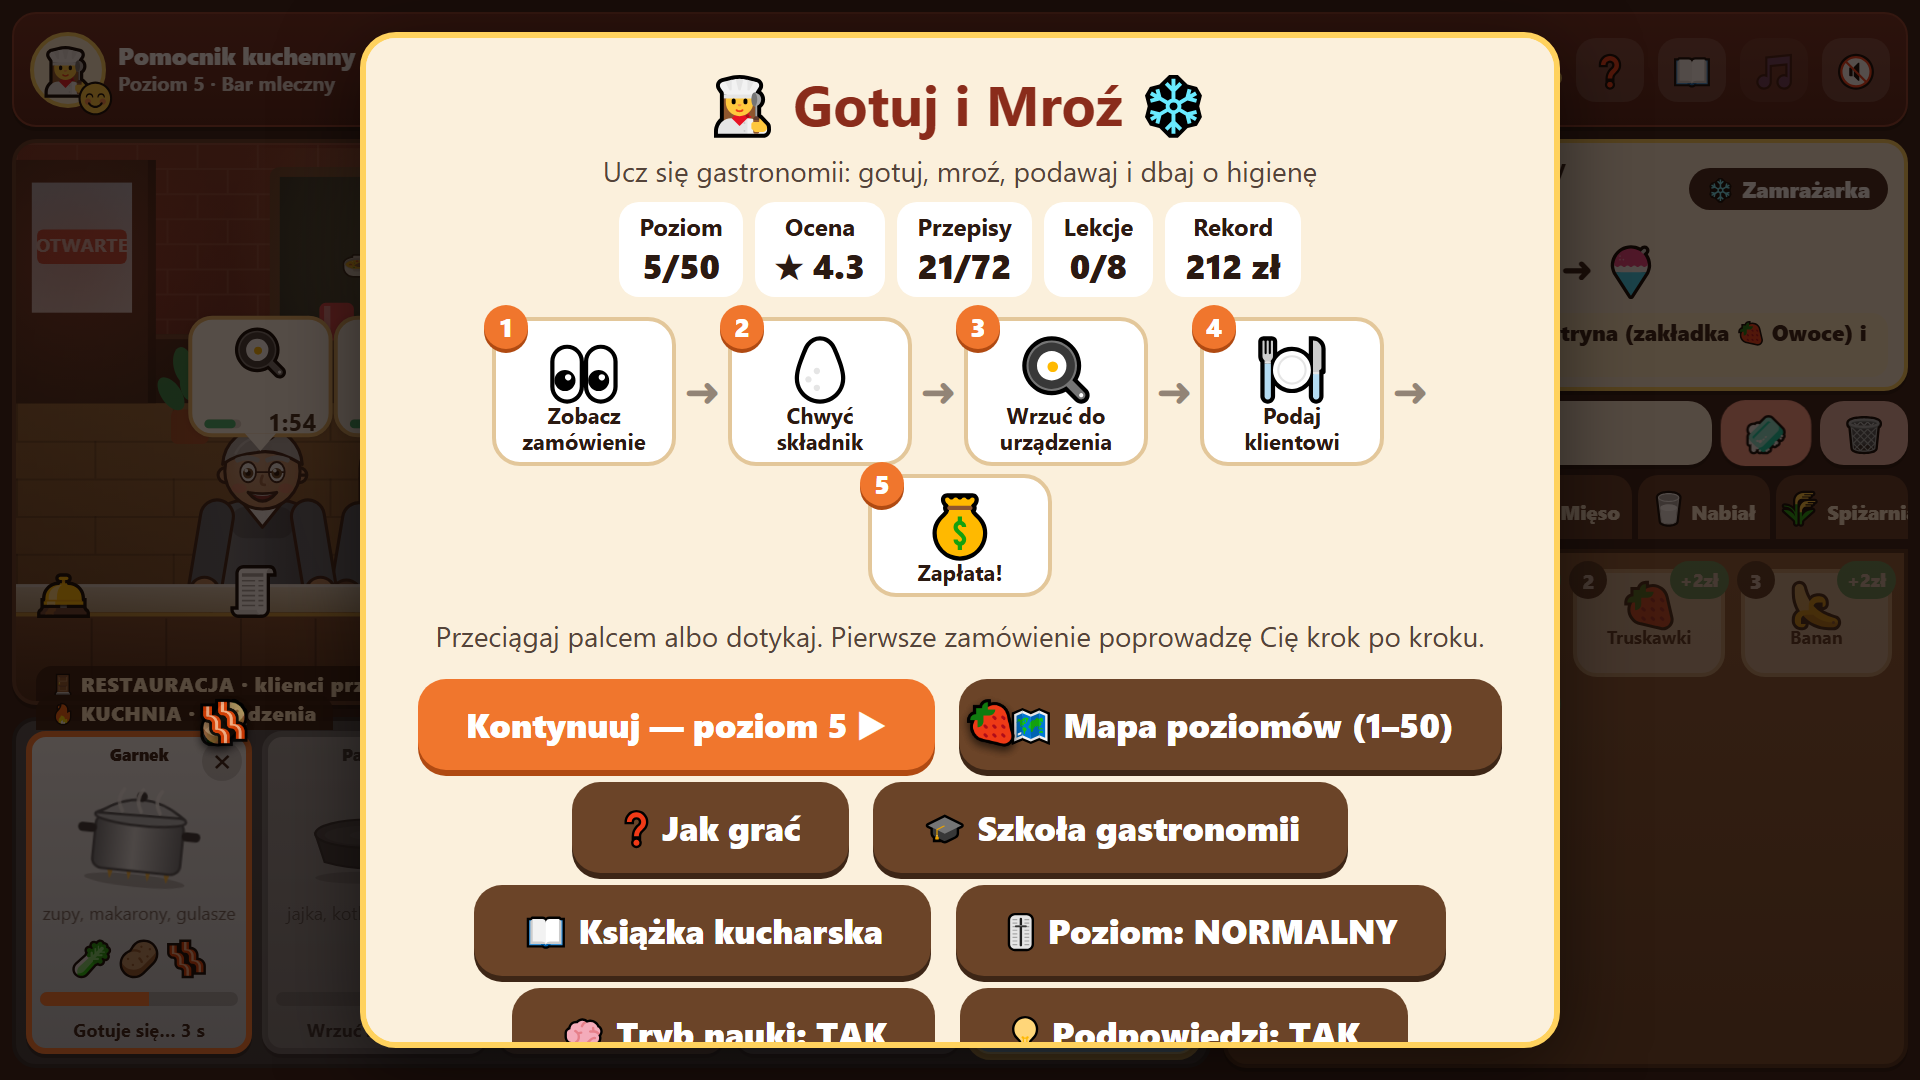
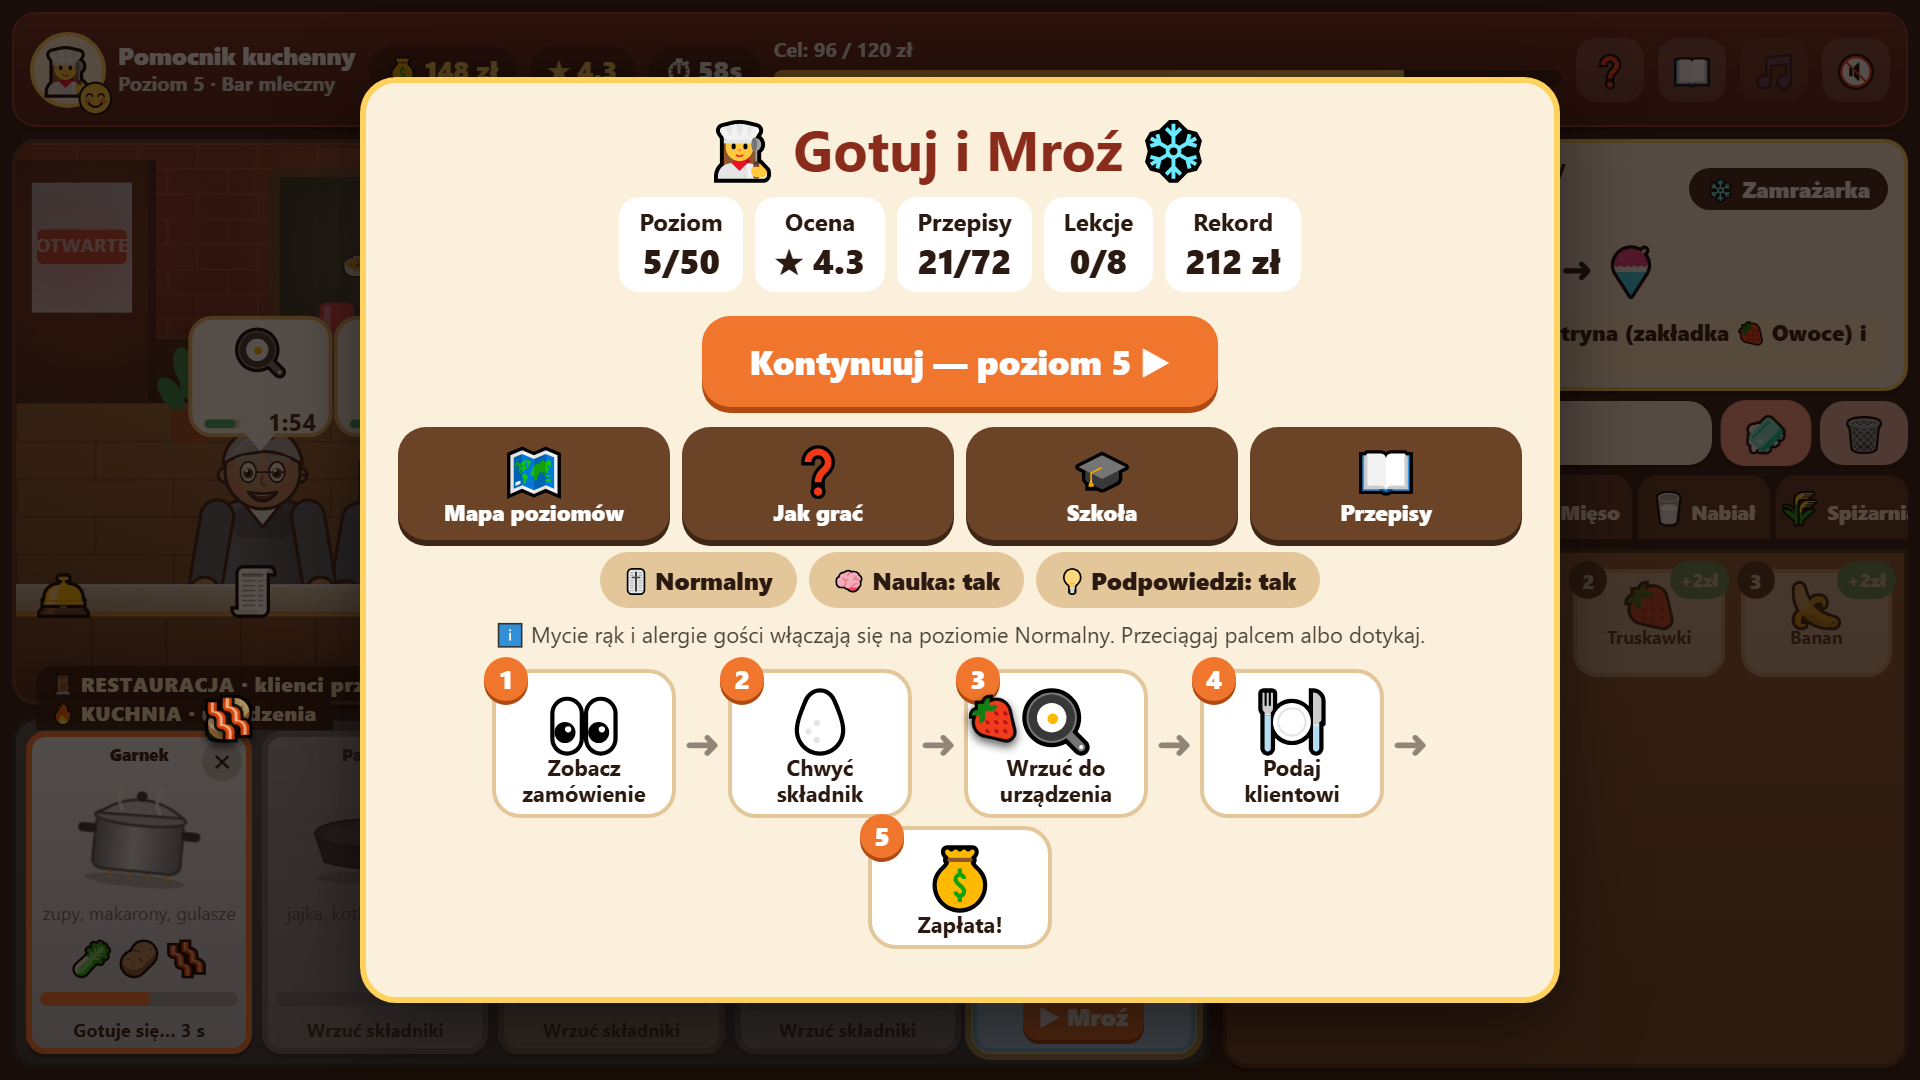
Napraw układ pionowy, menu na małych ekranach i zbalansuj cele poziomów

diff --git a/gotuj-i-mroz/android/app/src/main/assets/public/index.html b/gotuj-i-mroz/android/app/src/main/assets/public/index.html
@@ -165,6 +165,22 @@ button{font:inherit;color:inherit}
 .lesson .rp{margin-left:auto;font-weight:900;color:#2e8b57}
 .expl{background:#fff0c9;border-radius:10px;padding:8px 10px;font-size:14px;text-align:left}
 .nav{display:flex;gap:8px;justify-content:center}
+@media (max-height:520px){.menuhow{display:none}#ovbox h1{font-size:22px}.stats{margin:4px 0}.bigbtn{padding:8px 20px;font-size:15px}}
+.mgrid{display:grid;grid-template-columns:repeat(4,1fr);gap:6px;margin:10px 0 6px}
+.mgrid button{background:#6b4428;color:#fff;border:0;border-radius:14px;padding:8px 2px;font-size:24px;line-height:1.1;box-shadow:0 3px 0 #3d2616;cursor:pointer}
+.mgrid small{display:block;font-size:11px;font-weight:800;margin-top:2px}
+.mset{display:flex;flex-wrap:wrap;gap:6px;justify-content:center}
+.mset button{background:#e3c79a;color:var(--ink);border:0;border-radius:999px;padding:6px 12px;font-size:12px;font-weight:800;cursor:pointer}
+@media (orientation:portrait){
+  .st .nm{font-size:clamp(8px,2.3vw,12px)}
+  .st .msg{font-size:9px}
+  #app{grid-template-columns:minmax(0,1fr)}
+  #hud{flex-wrap:wrap;row-gap:3px}
+  .goal{order:20;flex:1 1 100%}
+  .chef div{display:block}
+  .chef small{display:none}
+  .st .what{display:none}
+}
 .how{display:flex;flex-wrap:wrap;align-items:stretch;justify-content:center;gap:4px;margin:10px 0}
 .how .hs{background:#fff;border:2px solid #e3c79a;border-radius:14px;padding:6px 6px 4px;width:92px;position:relative}
 .how .hs i{position:absolute;left:-6px;top:-8px;background:var(--accent);color:#fff;border-radius:50%;width:22px;height:22px;font-style:normal;font-weight:900;font-size:13px;display:flex;align-items:center;justify-content:center;box-shadow:0 2px 0 #b04a12}
@@ -481,7 +497,7 @@ function load(){try{const d=JSON.parse(localStorage.getItem(SAVE_KEY)||"null");i
 function save(){try{localStorage.setItem(SAVE_KEY,JSON.stringify({coins:S.coins,day:S.day,best:S.best,rep:S.rep,sound:S.sound,music:S.music,hints:S.hints,up:S.up,learn:S.learn,done:S.done,quizOK:S.quizOK,quizTot:S.quizTot,easy:S.easy,tutDone:S.tutDone,maxLv:S.maxLv,stars:S.stars}));}catch(e){}}
 const unlocked=()=>RECIPES.filter(r=>r.day<=S.day);
 const usedIng=()=>{const s=new Set();unlocked().forEach(r=>r.ing.forEach(i=>s.add(i)));return s;};
-const target=()=>Math.round((45+9*S.day)*(S.easy?.75:1));
+const target=()=>Math.round((80+8*S.day)*(S.easy?.75:1));
 const maxPat=()=>Math.min(180,Math.max(70,180-S.day*2.3))*(1+.15*S.up.pat)*(S.easy?1:.8); // klient czeka do 3 minut
 const maxQ=()=>{const n=S.day<5?3:S.day<15?4:5;return S.easy?Math.min(n,4):n;};
 const rnd=a=>a[Math.floor(Math.random()*a.length)];
@@ -762,7 +778,7 @@ function tick(dt){
     S.spawn-=dt;
     if(S.spawn<=0){
       if(S.q.length<maxQ()){S.q.push(makeCust());sfx.door();dirty=true;}
-      S.spawn=(Math.max(6,16-S.day*.2)+Math.random()*4)/(1+(S.rep-3)*.08)*(S.easy?1.3:1)*(S.event&&S.event.type==="rush"?.5:1);
+      S.spawn=(Math.max(6,13-S.day*.18)+Math.random()*3)/(1+(S.rep-3)*.08)*(S.easy?1.15:1)*(S.event&&S.event.type==="rush"?.5:1);
     }
   }
   for(let i=S.q.length-1;i>=0;i--){
@@ -814,7 +830,7 @@ function reviews(){
 function endDay(){
   S.running=false;
   const tg=target(),ok=S.earned>=tg;
-  const stars=S.earned>=tg*2?3:S.earned>=tg*1.5?2:ok?1:0;
+  const stars=S.earned>=tg*1.9?3:S.earned>=tg*1.4?2:ok?1:0;
   const before=unlocked().length;
   if(S.earned>S.best)S.best=S.earned;
   S.stars[S.day]=Math.max(S.stars[S.day]||0,stars);S.lastLevel=S.day;
@@ -894,11 +910,11 @@ function showEnd(){
     <div class="stars">${"⭐".repeat(stars)}${"☆".repeat(3-stars)}</div>
     <div class="stats"><div>Zarobek<b>${S.earned} zł</b></div><div>Cel<b>${tg} zł</b></div><div>Obsłużeni<b>${S.served}</b></div><div>Stracone<b>${S.lost}</b></div><div>Ocena<b>★ ${S.rep.toFixed(1)}</b></div>${S.learn?`<div>Incydenty<b>${S.incidents}</b></div>`:""}</div>
     ${S.learn?`<p class="sub">💡 Czy wiesz, że ${rnd(TIPS)}</p>`:""}
+    <button class="bigbtn" data-act="startday">${ok?(S.day>=50&&S.stars[50]?"Zagraj jeszcze raz ▶":"Poziom "+S.day+" ▶"):"Powtórz poziom ▶"}</button>
+    <button class="bigbtn alt" data-act="map">🗺 Mapa poziomów</button>
     ${ok&&fresh.length?`<p><b>🔓 Nowe przepisy!</b></p><div class="newr">${fresh.map(r=>`<span>${r.e} ${r.name}</span>`).join("")}</div>`:""}
     <p><b>💬 Opinie gości</b></p>${revs.map(r=>`<div class="review">„${r.t}” <small>— ${r.who} ${"⭐".repeat(r.s)}</small></div>`).join("")}
-    ${shopHTML()}
-    <button class="bigbtn" data-act="startday">${ok?(S.day>=50&&S.stars[50]?"Zagraj jeszcze raz ▶":"Poziom "+S.day+" ▶"):"Powtórz poziom ▶"}</button>
-    <button class="bigbtn alt" data-act="map">🗺 Mapa poziomów</button>`);
+    ${shopHTML()}`);
 }
 
 /* ============ SCENA ============ */
@@ -1363,20 +1379,13 @@ function menu(){
   menuMode=true;
   const known=unlocked().length;
   overlay(`<h1>👩🍳 Gotuj i Mroź ❄</h1>
-    <p class="sub">Ucz się gastronomii: gotuj, mroź, podawaj i dbaj o higienę</p>
     <div class="stats"><div>Poziom<b>${S.day}/50</b></div><div>Ocena<b>★ ${S.rep.toFixed(1)}</b></div><div>Przepisy<b>${known}/${RECIPES.length}</b></div><div>Lekcje<b>${S.done.length}/${LESSONS.length}</b></div><div>Rekord<b>${S.best} zł</b></div></div>
-    ${howStrip()}
-    <p class="sub">Przeciągaj palcem albo dotykaj. Pierwsze zamówienie poprowadzę Cię krok po kroku.</p>
     <button class="bigbtn" data-act="startday">${S.day>1?"Kontynuuj — poziom "+S.day:"Otwórz restaurację!"} ▶</button>
-    <button class="bigbtn alt" data-act="map">🗺 Mapa poziomów (1–50)</button>
-    <button class="bigbtn alt" data-act="how">❓ Jak grać</button>
-    <button class="bigbtn alt" data-act="school">🎓 Szkoła gastronomii</button>
-    <button class="bigbtn alt" data-act="book">📖 Książka kucharska</button>
-    <button class="bigbtn alt" data-act="easy">🎚 Poziom: ${S.easy?"ŁATWY (polecany na start)":"NORMALNY"}</button>
-    <button class="bigbtn alt" data-act="learn">🧠 Tryb nauki: ${S.learn?"TAK":"NIE"}</button>
-    <button class="bigbtn alt" data-act="hints">💡 Podpowiedzi: ${S.hints?"TAK":"NIE (tryb szefa)"}</button>`);
+    <div class="mgrid"><button data-act="map">🗺<small>Mapa poziomów</small></button><button data-act="how">❓<small>Jak grać</small></button><button data-act="school">🎓<small>Szkoła</small></button><button data-act="book">📖<small>Przepisy</small></button></div>
+    <div class="mset"><button data-act="easy">🎚 ${S.easy?"Łatwy":"Normalny"}</button><button data-act="learn">🧠 Nauka: ${S.learn?"tak":"nie"}</button><button data-act="hints">💡 Podpowiedzi: ${S.hints?"tak":"nie"}</button></div>
+    <p class="sub" style="margin:6px 0 0;font-size:11px">ℹ Mycie rąk i alergie gości włączają się na poziomie Normalny. Przeciągaj palcem albo dotykaj.</p>
+    <div class="menuhow">${howStrip()}</div>`);
 }
-
 /* ============ START ============ */
 document.addEventListener("pointerdown",e=>{
   S.idle=0;hideHandHint();

diff --git a/gotuj-i-mroz/index.html b/gotuj-i-mroz/index.html
@@ -165,6 +165,22 @@ button{font:inherit;color:inherit}
 .lesson .rp{margin-left:auto;font-weight:900;color:#2e8b57}
 .expl{background:#fff0c9;border-radius:10px;padding:8px 10px;font-size:14px;text-align:left}
 .nav{display:flex;gap:8px;justify-content:center}
+@media (max-height:520px){.menuhow{display:none}#ovbox h1{font-size:22px}.stats{margin:4px 0}.bigbtn{padding:8px 20px;font-size:15px}}
+.mgrid{display:grid;grid-template-columns:repeat(4,1fr);gap:6px;margin:10px 0 6px}
+.mgrid button{background:#6b4428;color:#fff;border:0;border-radius:14px;padding:8px 2px;font-size:24px;line-height:1.1;box-shadow:0 3px 0 #3d2616;cursor:pointer}
+.mgrid small{display:block;font-size:11px;font-weight:800;margin-top:2px}
+.mset{display:flex;flex-wrap:wrap;gap:6px;justify-content:center}
+.mset button{background:#e3c79a;color:var(--ink);border:0;border-radius:999px;padding:6px 12px;font-size:12px;font-weight:800;cursor:pointer}
+@media (orientation:portrait){
+  .st .nm{font-size:clamp(8px,2.3vw,12px)}
+  .st .msg{font-size:9px}
+  #app{grid-template-columns:minmax(0,1fr)}
+  #hud{flex-wrap:wrap;row-gap:3px}
+  .goal{order:20;flex:1 1 100%}
+  .chef div{display:block}
+  .chef small{display:none}
+  .st .what{display:none}
+}
 .how{display:flex;flex-wrap:wrap;align-items:stretch;justify-content:center;gap:4px;margin:10px 0}
 .how .hs{background:#fff;border:2px solid #e3c79a;border-radius:14px;padding:6px 6px 4px;width:92px;position:relative}
 .how .hs i{position:absolute;left:-6px;top:-8px;background:var(--accent);color:#fff;border-radius:50%;width:22px;height:22px;font-style:normal;font-weight:900;font-size:13px;display:flex;align-items:center;justify-content:center;box-shadow:0 2px 0 #b04a12}
@@ -481,7 +497,7 @@ function load(){try{const d=JSON.parse(localStorage.getItem(SAVE_KEY)||"null");i
 function save(){try{localStorage.setItem(SAVE_KEY,JSON.stringify({coins:S.coins,day:S.day,best:S.best,rep:S.rep,sound:S.sound,music:S.music,hints:S.hints,up:S.up,learn:S.learn,done:S.done,quizOK:S.quizOK,quizTot:S.quizTot,easy:S.easy,tutDone:S.tutDone,maxLv:S.maxLv,stars:S.stars}));}catch(e){}}
 const unlocked=()=>RECIPES.filter(r=>r.day<=S.day);
 const usedIng=()=>{const s=new Set();unlocked().forEach(r=>r.ing.forEach(i=>s.add(i)));return s;};
-const target=()=>Math.round((45+9*S.day)*(S.easy?.75:1));
+const target=()=>Math.round((80+8*S.day)*(S.easy?.75:1));
 const maxPat=()=>Math.min(180,Math.max(70,180-S.day*2.3))*(1+.15*S.up.pat)*(S.easy?1:.8); // klient czeka do 3 minut
 const maxQ=()=>{const n=S.day<5?3:S.day<15?4:5;return S.easy?Math.min(n,4):n;};
 const rnd=a=>a[Math.floor(Math.random()*a.length)];
@@ -762,7 +778,7 @@ function tick(dt){
     S.spawn-=dt;
     if(S.spawn<=0){
       if(S.q.length<maxQ()){S.q.push(makeCust());sfx.door();dirty=true;}
-      S.spawn=(Math.max(6,16-S.day*.2)+Math.random()*4)/(1+(S.rep-3)*.08)*(S.easy?1.3:1)*(S.event&&S.event.type==="rush"?.5:1);
+      S.spawn=(Math.max(6,13-S.day*.18)+Math.random()*3)/(1+(S.rep-3)*.08)*(S.easy?1.15:1)*(S.event&&S.event.type==="rush"?.5:1);
     }
   }
   for(let i=S.q.length-1;i>=0;i--){
@@ -814,7 +830,7 @@ function reviews(){
 function endDay(){
   S.running=false;
   const tg=target(),ok=S.earned>=tg;
-  const stars=S.earned>=tg*2?3:S.earned>=tg*1.5?2:ok?1:0;
+  const stars=S.earned>=tg*1.9?3:S.earned>=tg*1.4?2:ok?1:0;
   const before=unlocked().length;
   if(S.earned>S.best)S.best=S.earned;
   S.stars[S.day]=Math.max(S.stars[S.day]||0,stars);S.lastLevel=S.day;
@@ -894,11 +910,11 @@ function showEnd(){
     <div class="stars">${"⭐".repeat(stars)}${"☆".repeat(3-stars)}</div>
     <div class="stats"><div>Zarobek<b>${S.earned} zł</b></div><div>Cel<b>${tg} zł</b></div><div>Obsłużeni<b>${S.served}</b></div><div>Stracone<b>${S.lost}</b></div><div>Ocena<b>★ ${S.rep.toFixed(1)}</b></div>${S.learn?`<div>Incydenty<b>${S.incidents}</b></div>`:""}</div>
     ${S.learn?`<p class="sub">💡 Czy wiesz, że ${rnd(TIPS)}</p>`:""}
+    <button class="bigbtn" data-act="startday">${ok?(S.day>=50&&S.stars[50]?"Zagraj jeszcze raz ▶":"Poziom "+S.day+" ▶"):"Powtórz poziom ▶"}</button>
+    <button class="bigbtn alt" data-act="map">🗺 Mapa poziomów</button>
     ${ok&&fresh.length?`<p><b>🔓 Nowe przepisy!</b></p><div class="newr">${fresh.map(r=>`<span>${r.e} ${r.name}</span>`).join("")}</div>`:""}
     <p><b>💬 Opinie gości</b></p>${revs.map(r=>`<div class="review">„${r.t}” <small>— ${r.who} ${"⭐".repeat(r.s)}</small></div>`).join("")}
-    ${shopHTML()}
-    <button class="bigbtn" data-act="startday">${ok?(S.day>=50&&S.stars[50]?"Zagraj jeszcze raz ▶":"Poziom "+S.day+" ▶"):"Powtórz poziom ▶"}</button>
-    <button class="bigbtn alt" data-act="map">🗺 Mapa poziomów</button>`);
+    ${shopHTML()}`);
 }
 
 /* ============ SCENA ============ */
@@ -1363,20 +1379,13 @@ function menu(){
   menuMode=true;
   const known=unlocked().length;
   overlay(`<h1>👩🍳 Gotuj i Mroź ❄</h1>
-    <p class="sub">Ucz się gastronomii: gotuj, mroź, podawaj i dbaj o higienę</p>
     <div class="stats"><div>Poziom<b>${S.day}/50</b></div><div>Ocena<b>★ ${S.rep.toFixed(1)}</b></div><div>Przepisy<b>${known}/${RECIPES.length}</b></div><div>Lekcje<b>${S.done.length}/${LESSONS.length}</b></div><div>Rekord<b>${S.best} zł</b></div></div>
-    ${howStrip()}
-    <p class="sub">Przeciągaj palcem albo dotykaj. Pierwsze zamówienie poprowadzę Cię krok po kroku.</p>
     <button class="bigbtn" data-act="startday">${S.day>1?"Kontynuuj — poziom "+S.day:"Otwórz restaurację!"} ▶</button>
-    <button class="bigbtn alt" data-act="map">🗺 Mapa poziomów (1–50)</button>
-    <button class="bigbtn alt" data-act="how">❓ Jak grać</button>
-    <button class="bigbtn alt" data-act="school">🎓 Szkoła gastronomii</button>
-    <button class="bigbtn alt" data-act="book">📖 Książka kucharska</button>
-    <button class="bigbtn alt" data-act="easy">🎚 Poziom: ${S.easy?"ŁATWY (polecany na start)":"NORMALNY"}</button>
-    <button class="bigbtn alt" data-act="learn">🧠 Tryb nauki: ${S.learn?"TAK":"NIE"}</button>
-    <button class="bigbtn alt" data-act="hints">💡 Podpowiedzi: ${S.hints?"TAK":"NIE (tryb szefa)"}</button>`);
+    <div class="mgrid"><button data-act="map">🗺<small>Mapa poziomów</small></button><button data-act="how">❓<small>Jak grać</small></button><button data-act="school">🎓<small>Szkoła</small></button><button data-act="book">📖<small>Przepisy</small></button></div>
+    <div class="mset"><button data-act="easy">🎚 ${S.easy?"Łatwy":"Normalny"}</button><button data-act="learn">🧠 Nauka: ${S.learn?"tak":"nie"}</button><button data-act="hints">💡 Podpowiedzi: ${S.hints?"tak":"nie"}</button></div>
+    <p class="sub" style="margin:6px 0 0;font-size:11px">ℹ Mycie rąk i alergie gości włączają się na poziomie Normalny. Przeciągaj palcem albo dotykaj.</p>
+    <div class="menuhow">${howStrip()}</div>`);
 }
-
 /* ============ START ============ */
 document.addEventListener("pointerdown",e=>{
   S.idle=0;hideHandHint();

diff --git a/gotuj-i-mroz/www/index.html b/gotuj-i-mroz/www/index.html
@@ -165,6 +165,22 @@ button{font:inherit;color:inherit}
 .lesson .rp{margin-left:auto;font-weight:900;color:#2e8b57}
 .expl{background:#fff0c9;border-radius:10px;padding:8px 10px;font-size:14px;text-align:left}
 .nav{display:flex;gap:8px;justify-content:center}
+@media (max-height:520px){.menuhow{display:none}#ovbox h1{font-size:22px}.stats{margin:4px 0}.bigbtn{padding:8px 20px;font-size:15px}}
+.mgrid{display:grid;grid-template-columns:repeat(4,1fr);gap:6px;margin:10px 0 6px}
+.mgrid button{background:#6b4428;color:#fff;border:0;border-radius:14px;padding:8px 2px;font-size:24px;line-height:1.1;box-shadow:0 3px 0 #3d2616;cursor:pointer}
+.mgrid small{display:block;font-size:11px;font-weight:800;margin-top:2px}
+.mset{display:flex;flex-wrap:wrap;gap:6px;justify-content:center}
+.mset button{background:#e3c79a;color:var(--ink);border:0;border-radius:999px;padding:6px 12px;font-size:12px;font-weight:800;cursor:pointer}
+@media (orientation:portrait){
+  .st .nm{font-size:clamp(8px,2.3vw,12px)}
+  .st .msg{font-size:9px}
+  #app{grid-template-columns:minmax(0,1fr)}
+  #hud{flex-wrap:wrap;row-gap:3px}
+  .goal{order:20;flex:1 1 100%}
+  .chef div{display:block}
+  .chef small{display:none}
+  .st .what{display:none}
+}
 .how{display:flex;flex-wrap:wrap;align-items:stretch;justify-content:center;gap:4px;margin:10px 0}
 .how .hs{background:#fff;border:2px solid #e3c79a;border-radius:14px;padding:6px 6px 4px;width:92px;position:relative}
 .how .hs i{position:absolute;left:-6px;top:-8px;background:var(--accent);color:#fff;border-radius:50%;width:22px;height:22px;font-style:normal;font-weight:900;font-size:13px;display:flex;align-items:center;justify-content:center;box-shadow:0 2px 0 #b04a12}
@@ -481,7 +497,7 @@ function load(){try{const d=JSON.parse(localStorage.getItem(SAVE_KEY)||"null");i
 function save(){try{localStorage.setItem(SAVE_KEY,JSON.stringify({coins:S.coins,day:S.day,best:S.best,rep:S.rep,sound:S.sound,music:S.music,hints:S.hints,up:S.up,learn:S.learn,done:S.done,quizOK:S.quizOK,quizTot:S.quizTot,easy:S.easy,tutDone:S.tutDone,maxLv:S.maxLv,stars:S.stars}));}catch(e){}}
 const unlocked=()=>RECIPES.filter(r=>r.day<=S.day);
 const usedIng=()=>{const s=new Set();unlocked().forEach(r=>r.ing.forEach(i=>s.add(i)));return s;};
-const target=()=>Math.round((45+9*S.day)*(S.easy?.75:1));
+const target=()=>Math.round((80+8*S.day)*(S.easy?.75:1));
 const maxPat=()=>Math.min(180,Math.max(70,180-S.day*2.3))*(1+.15*S.up.pat)*(S.easy?1:.8); // klient czeka do 3 minut
 const maxQ=()=>{const n=S.day<5?3:S.day<15?4:5;return S.easy?Math.min(n,4):n;};
 const rnd=a=>a[Math.floor(Math.random()*a.length)];
@@ -762,7 +778,7 @@ function tick(dt){
     S.spawn-=dt;
     if(S.spawn<=0){
       if(S.q.length<maxQ()){S.q.push(makeCust());sfx.door();dirty=true;}
-      S.spawn=(Math.max(6,16-S.day*.2)+Math.random()*4)/(1+(S.rep-3)*.08)*(S.easy?1.3:1)*(S.event&&S.event.type==="rush"?.5:1);
+      S.spawn=(Math.max(6,13-S.day*.18)+Math.random()*3)/(1+(S.rep-3)*.08)*(S.easy?1.15:1)*(S.event&&S.event.type==="rush"?.5:1);
     }
   }
   for(let i=S.q.length-1;i>=0;i--){
@@ -814,7 +830,7 @@ function reviews(){
 function endDay(){
   S.running=false;
   const tg=target(),ok=S.earned>=tg;
-  const stars=S.earned>=tg*2?3:S.earned>=tg*1.5?2:ok?1:0;
+  const stars=S.earned>=tg*1.9?3:S.earned>=tg*1.4?2:ok?1:0;
   const before=unlocked().length;
   if(S.earned>S.best)S.best=S.earned;
   S.stars[S.day]=Math.max(S.stars[S.day]||0,stars);S.lastLevel=S.day;
@@ -894,11 +910,11 @@ function showEnd(){
     <div class="stars">${"⭐".repeat(stars)}${"☆".repeat(3-stars)}</div>
     <div class="stats"><div>Zarobek<b>${S.earned} zł</b></div><div>Cel<b>${tg} zł</b></div><div>Obsłużeni<b>${S.served}</b></div><div>Stracone<b>${S.lost}</b></div><div>Ocena<b>★ ${S.rep.toFixed(1)}</b></div>${S.learn?`<div>Incydenty<b>${S.incidents}</b></div>`:""}</div>
     ${S.learn?`<p class="sub">💡 Czy wiesz, że ${rnd(TIPS)}</p>`:""}
+    <button class="bigbtn" data-act="startday">${ok?(S.day>=50&&S.stars[50]?"Zagraj jeszcze raz ▶":"Poziom "+S.day+" ▶"):"Powtórz poziom ▶"}</button>
+    <button class="bigbtn alt" data-act="map">🗺 Mapa poziomów</button>
     ${ok&&fresh.length?`<p><b>🔓 Nowe przepisy!</b></p><div class="newr">${fresh.map(r=>`<span>${r.e} ${r.name}</span>`).join("")}</div>`:""}
     <p><b>💬 Opinie gości</b></p>${revs.map(r=>`<div class="review">„${r.t}” <small>— ${r.who} ${"⭐".repeat(r.s)}</small></div>`).join("")}
-    ${shopHTML()}
-    <button class="bigbtn" data-act="startday">${ok?(S.day>=50&&S.stars[50]?"Zagraj jeszcze raz ▶":"Poziom "+S.day+" ▶"):"Powtórz poziom ▶"}</button>
-    <button class="bigbtn alt" data-act="map">🗺 Mapa poziomów</button>`);
+    ${shopHTML()}`);
 }
 
 /* ============ SCENA ============ */
@@ -1363,20 +1379,13 @@ function menu(){
   menuMode=true;
   const known=unlocked().length;
   overlay(`<h1>👩🍳 Gotuj i Mroź ❄</h1>
-    <p class="sub">Ucz się gastronomii: gotuj, mroź, podawaj i dbaj o higienę</p>
     <div class="stats"><div>Poziom<b>${S.day}/50</b></div><div>Ocena<b>★ ${S.rep.toFixed(1)}</b></div><div>Przepisy<b>${known}/${RECIPES.length}</b></div><div>Lekcje<b>${S.done.length}/${LESSONS.length}</b></div><div>Rekord<b>${S.best} zł</b></div></div>
-    ${howStrip()}
-    <p class="sub">Przeciągaj palcem albo dotykaj. Pierwsze zamówienie poprowadzę Cię krok po kroku.</p>
     <button class="bigbtn" data-act="startday">${S.day>1?"Kontynuuj — poziom "+S.day:"Otwórz restaurację!"} ▶</button>
-    <button class="bigbtn alt" data-act="map">🗺 Mapa poziomów (1–50)</button>
-    <button class="bigbtn alt" data-act="how">❓ Jak grać</button>
-    <button class="bigbtn alt" data-act="school">🎓 Szkoła gastronomii</button>
-    <button class="bigbtn alt" data-act="book">📖 Książka kucharska</button>
-    <button class="bigbtn alt" data-act="easy">🎚 Poziom: ${S.easy?"ŁATWY (polecany na start)":"NORMALNY"}</button>
-    <button class="bigbtn alt" data-act="learn">🧠 Tryb nauki: ${S.learn?"TAK":"NIE"}</button>
-    <button class="bigbtn alt" data-act="hints">💡 Podpowiedzi: ${S.hints?"TAK":"NIE (tryb szefa)"}</button>`);
+    <div class="mgrid"><button data-act="map">🗺<small>Mapa poziomów</small></button><button data-act="how">❓<small>Jak grać</small></button><button data-act="school">🎓<small>Szkoła</small></button><button data-act="book">📖<small>Przepisy</small></button></div>
+    <div class="mset"><button data-act="easy">🎚 ${S.easy?"Łatwy":"Normalny"}</button><button data-act="learn">🧠 Nauka: ${S.learn?"tak":"nie"}</button><button data-act="hints">💡 Podpowiedzi: ${S.hints?"tak":"nie"}</button></div>
+    <p class="sub" style="margin:6px 0 0;font-size:11px">ℹ Mycie rąk i alergie gości włączają się na poziomie Normalny. Przeciągaj palcem albo dotykaj.</p>
+    <div class="menuhow">${howStrip()}</div>`);
 }
-
 /* ============ START ============ */
 document.addEventListener("pointerdown",e=>{
   S.idle=0;hideHandHint();
